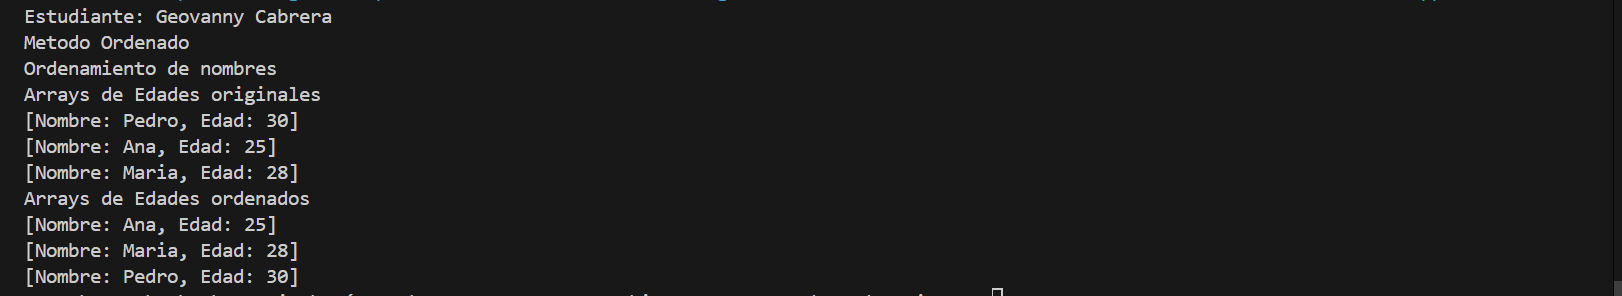
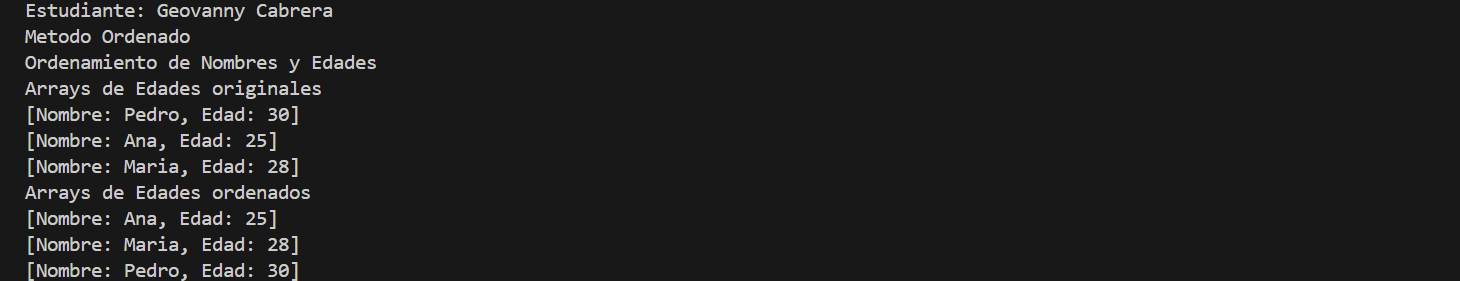
Practica 3 23/Octubre

diff --git a/src/App.java b/src/App.java
@@ -54,7 +54,7 @@ public class App {
         //System.out.println("Arreglo Ordenado");
         //sortCadena.printArray(nombres);
 
-            System.out.println("Ordenamiento de nombres");
+            System.out.println("Ordenamiento de Nombres y Edades");
             Persona[] personas = new Persona[] {
             new Persona("Pedro", 30),
             new Persona("Ana", 25 ),
